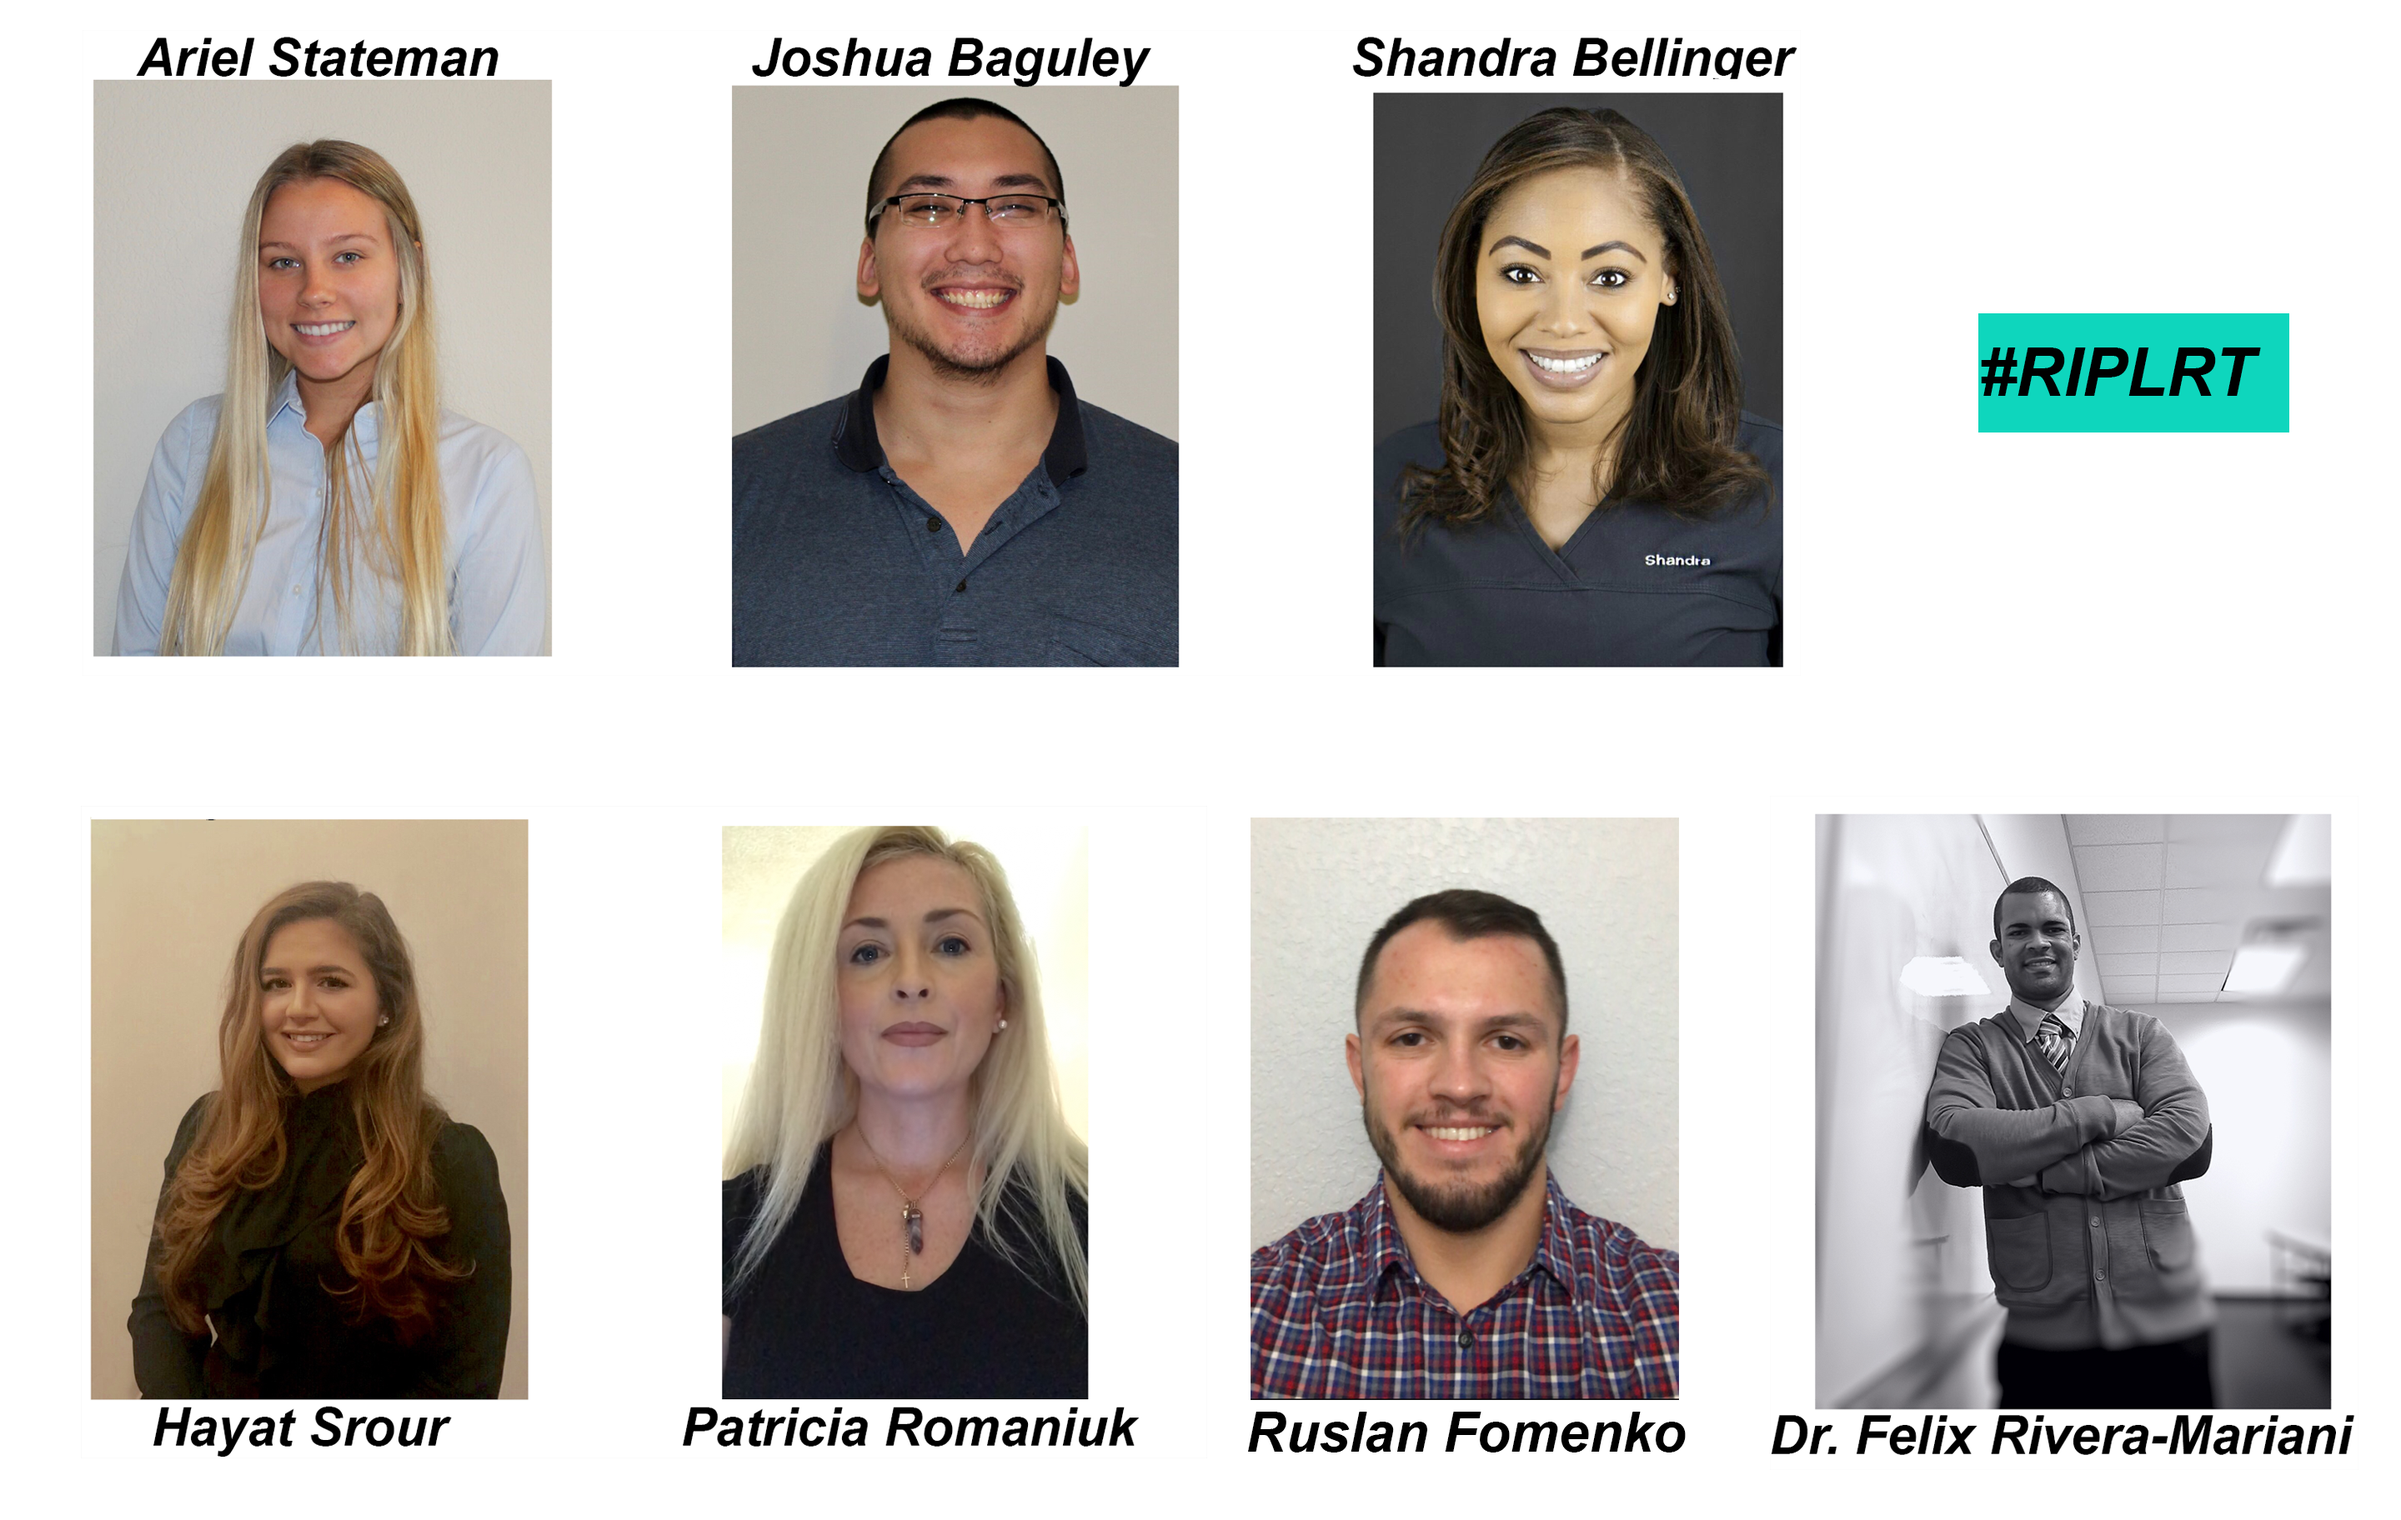
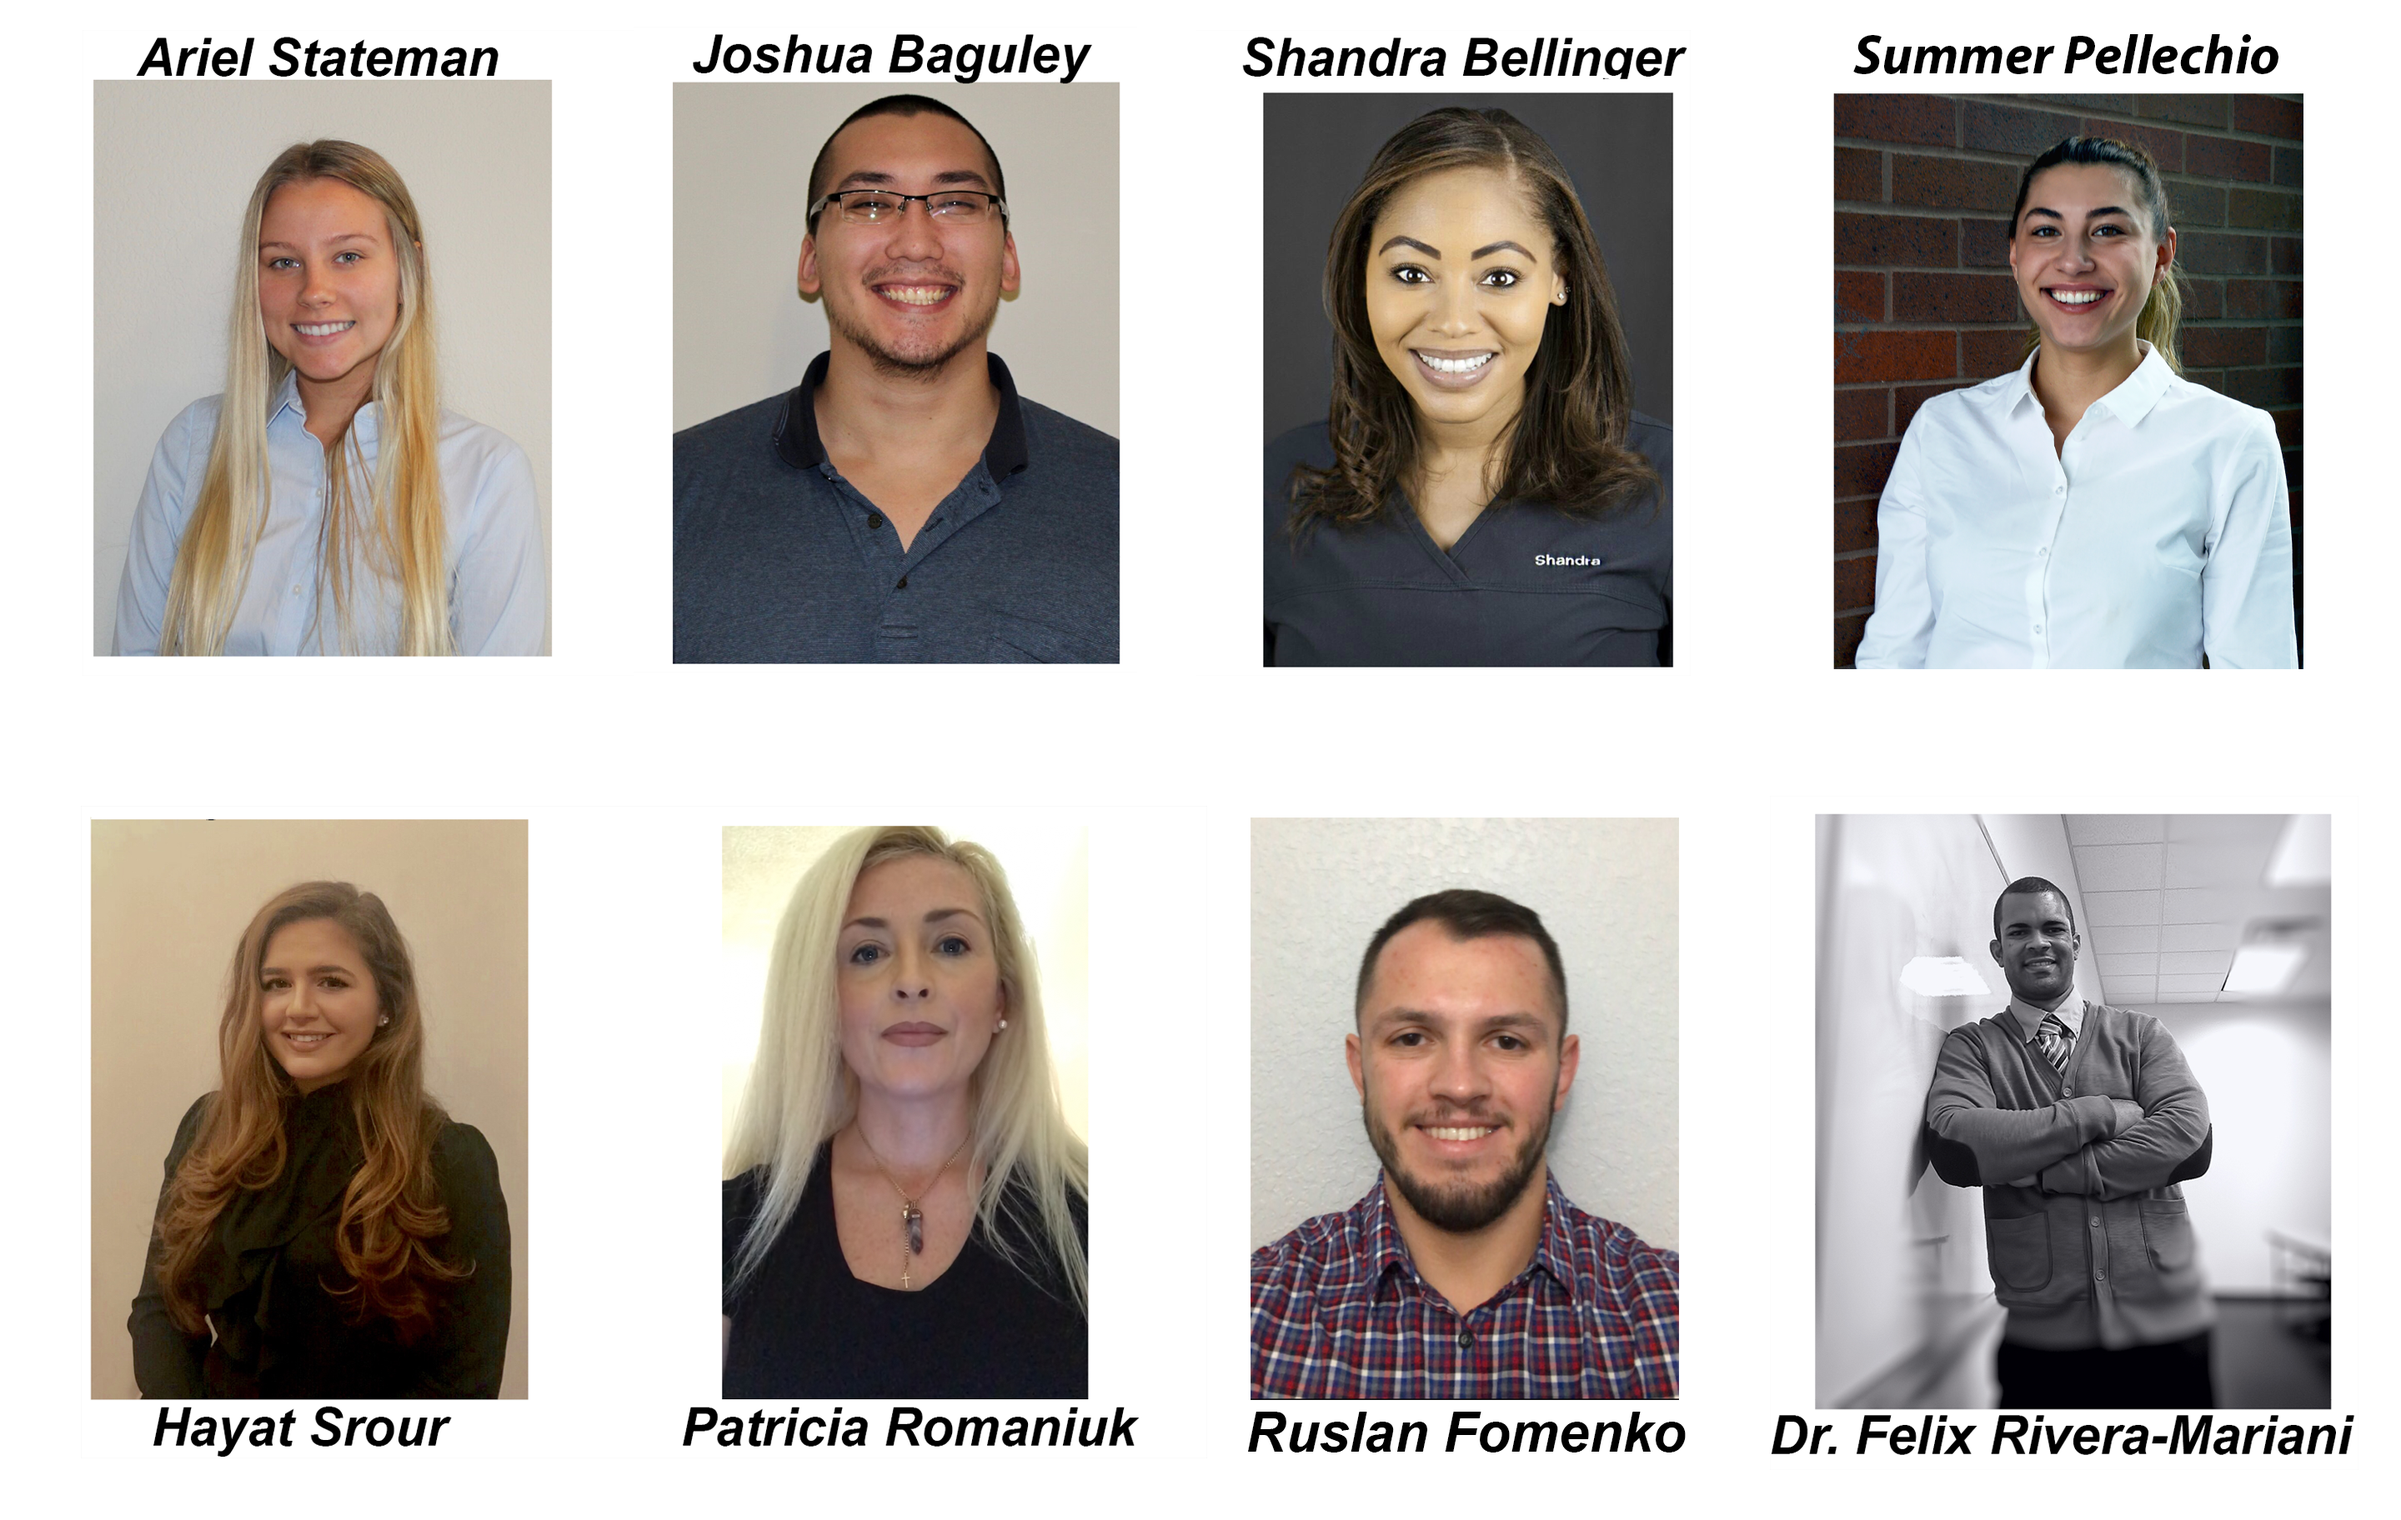
updated index image

Changed region(s): [[0.2812, 0.0, 0.9688, 0.4375]]

diff --git a/index.md b/index.md
@@ -23,7 +23,7 @@ In the RIPL_Effect Research Team, in addition to addressing the respiratory heal
 ---
 # Recent News @RIPLRT!!!
 
-### *New RIPLRT recruited @ a recent conference*
+### *New RIPLRT recruited @ a Recent Conference*
 
 Summer Pellecio, recent graduate from the Rochester Institute of Technology (Rochester, NY), was recently recruited after networking with Dr. Rivera-Mariani during the Annual Biomedical Research Conference for Minority Students in Indianapolis, Indiana (November 14-17, 2018). 
 
